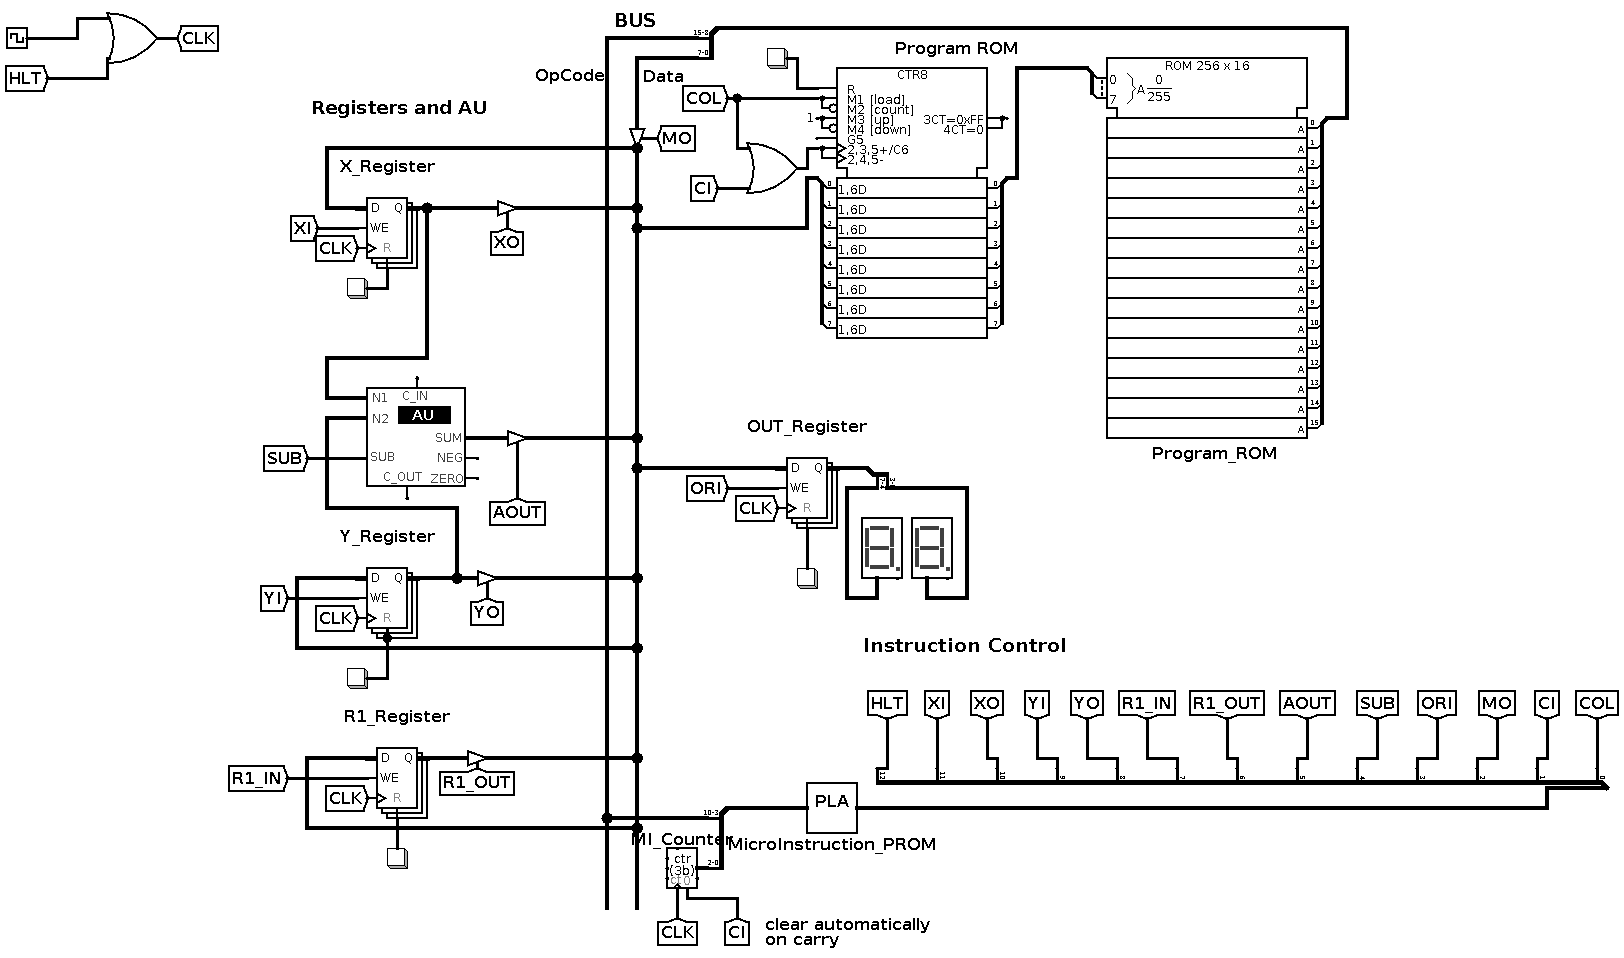
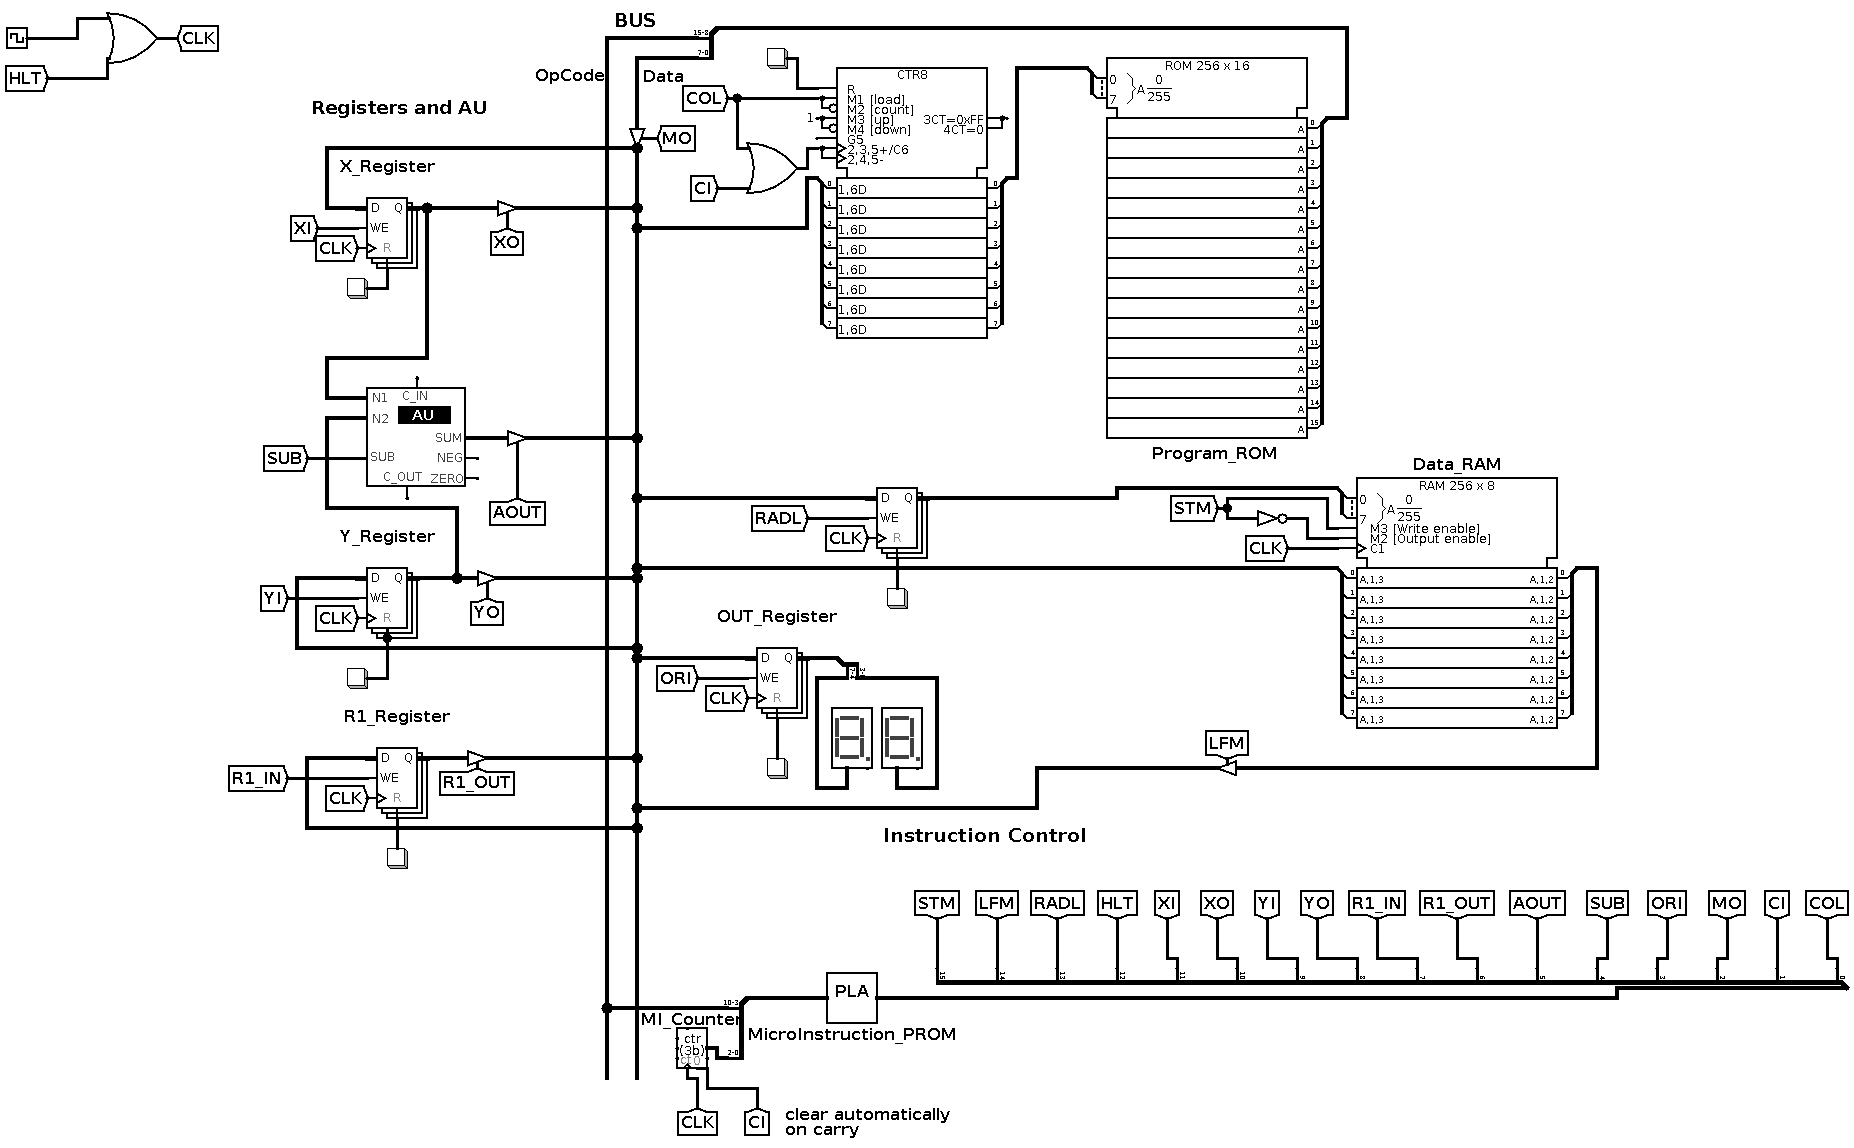
Updated everything!

Changed region(s): [[0.1232, 0.0, 1.0, 0.999], [0.0, 0.0, 0.1232, 0.0908]]

diff --git a/Instructions.md b/Instructions.md
@@ -23,5 +23,12 @@
 |ATR|10011|Add and store to R register|
 |STR|10100|Subtract and store to R register|
 |SAD|10101|Store address for a data to be fetched or stored for RAM|
-|XLM|10110|Load a data from the specified address in `SADR` to X Register|
-|XTM|10111|Store a data to the specified address in `SADR` from X Register|
+|XLM|10110|Load a data from the specified address in `Address Register` to X Register|
+|XTM|10111|Store a data to the specified address in `Address Register` from X Register|
+|RLM|11000|Load a data from the specified address in `Address Register` to R Register|
+|RTM|11001|Store a data to the specified address in `Address Register` from R Register|
+|YLM|11010|Load a data from the specified address in `Address Register` to Y Register|
+|YTM|11011|Store a data to the specified address in `Address Register` from Y Register|
+|SADR|11100|Set the `Address Register` to the value in R Register|
+|SADX|11101|Set the `Address Register` to the value in X Register|
+|SADY|11110|Set the `Address Register` to the value in Y Register|

diff --git a/README.md b/README.md
@@ -22,11 +22,8 @@ Read the [Instructions.md](https://github.com/Rouvik/My-8-Bit-CPU/blob/main/Inst
 ### Basic Circuit Schematic:
 ![8-Bit-CPU-Schematic](https://github.com/Rouvik/My-8-Bit-CPU/blob/main/Images/Circuit.png?raw=true)
 
-### Where to add the `MicroInstruction_PROM.txt`:
-![MILoad.png](https://github.com/Rouvik/My-8-Bit-CPU/blob/main/Images/MI_Load.png?raw=true)
-
-### Where to add the assembled program:
-![ProgLoad.png](https://github.com/Rouvik/My-8-Bit-CPU/blob/main/Images/Prog_Load.png?raw=true)
+### Where to add the `MicroInstruction_PROM.txt` and `Assembled hex`:
+![MILoad.png](https://github.com/Rouvik/My-8-Bit-CPU/blob/main/Images/MI_And_Prog_Load.png?raw=true)
 
 ### Brief image based hardware explanation:
 ![Expl.png](https://github.com/Rouvik/My-8-Bit-CPU/blob/main/Images/Expl.png?raw=true)
